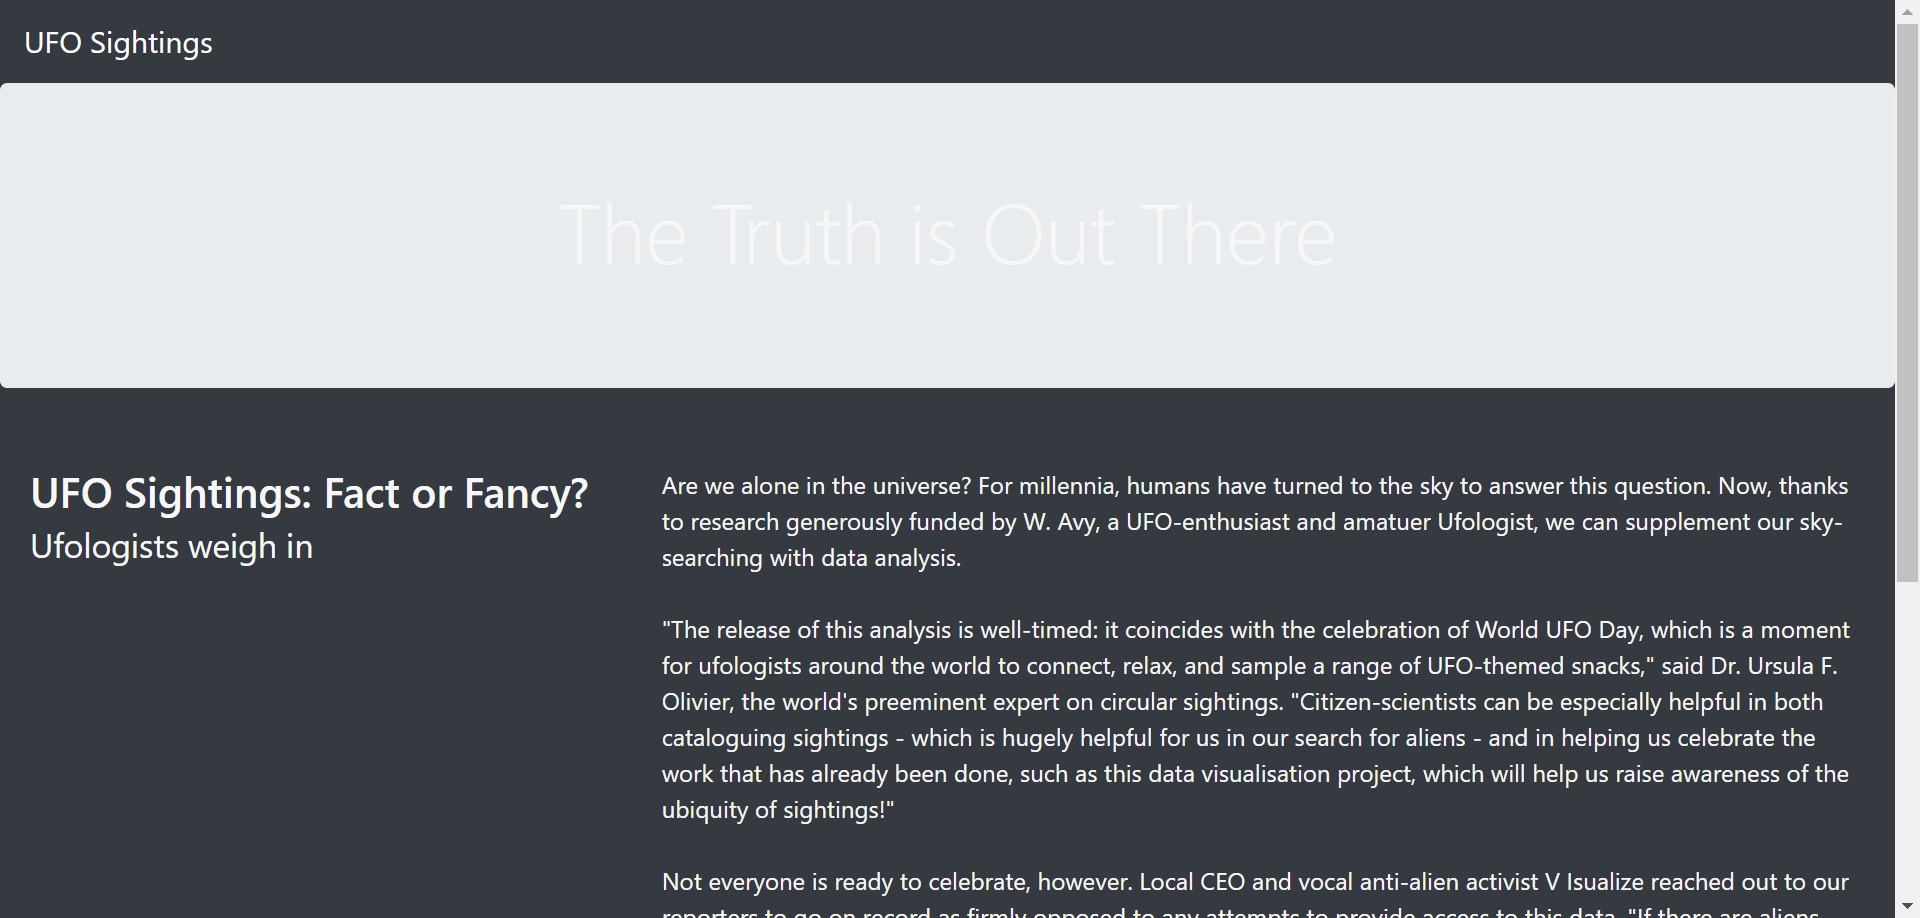
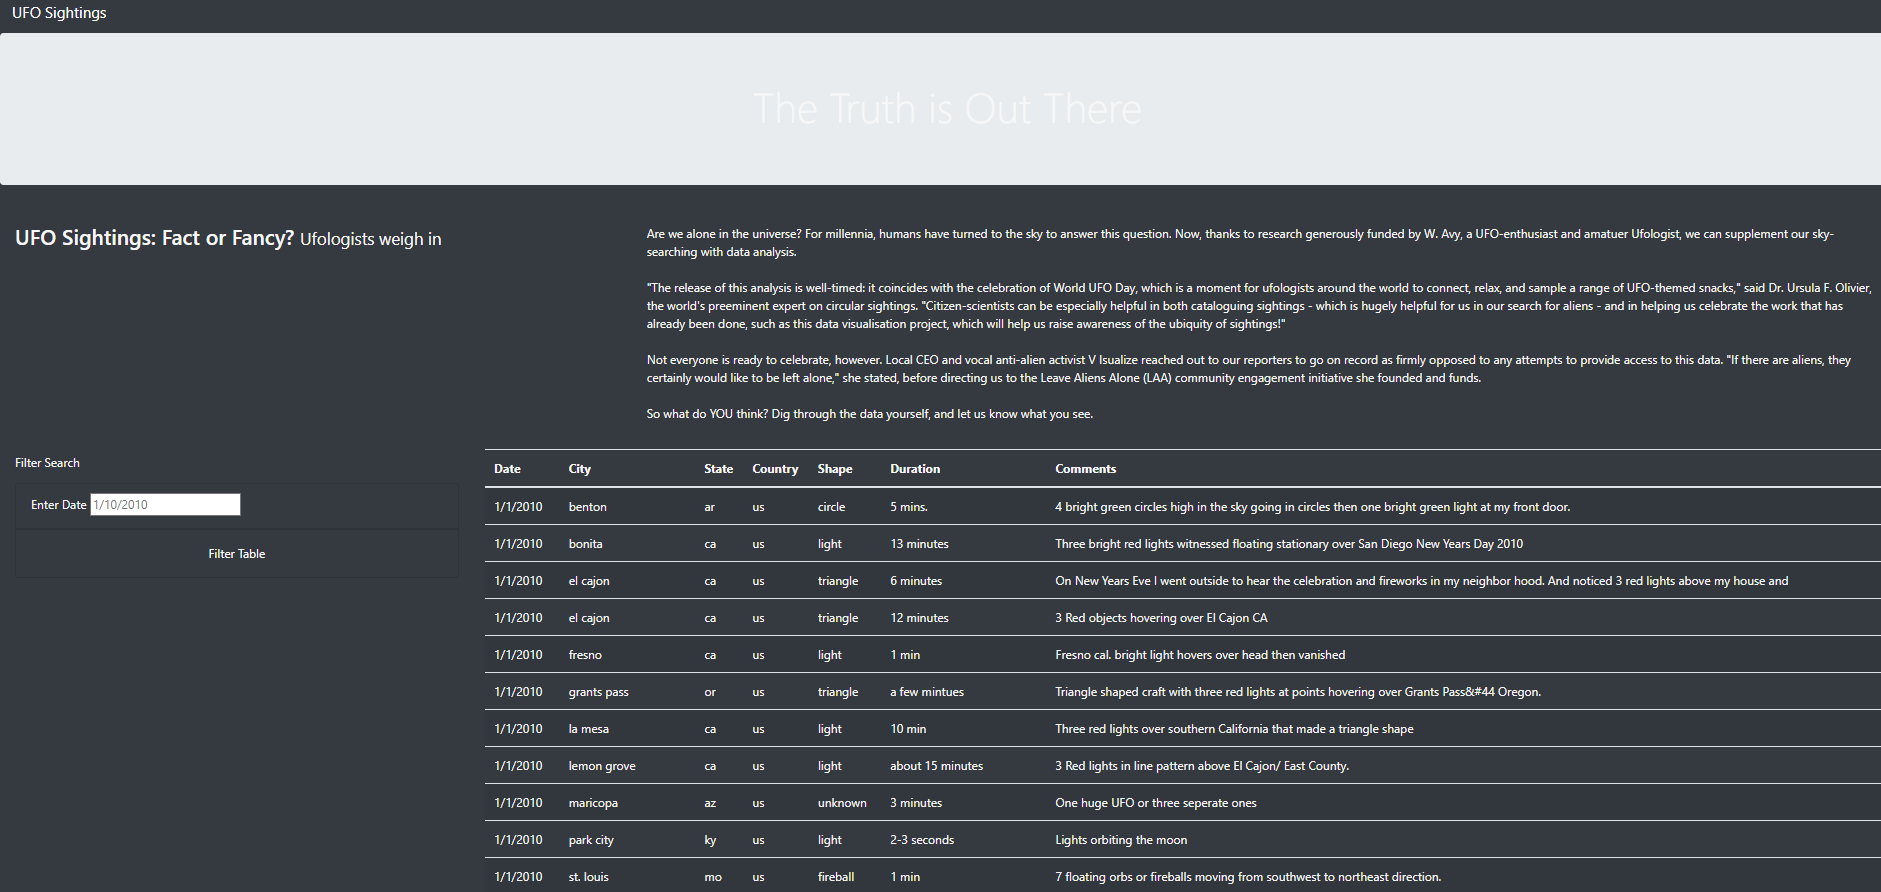
Add files via upload

diff --git a/static/js/app.js b/static/js/app.js
@@ -1,47 +1,76 @@
 // from data.js
+// import { data } from './data.js';
 const tableData = data;
 
 // get table references
 var tbody = d3.select("tbody");
 
 function buildTable(data) {
-    // First, clear out any existing data
-    tbody.html("");
-  
-    // Next, loop through each object in the data
-    // and append a row and cells for each value in the row
-    data.forEach((dataRow) => {
-      // Append a row to the table body
-      let row = tbody.append("tr");
-  
-      // Loop through each field in the dataRow and add
-      // each value as a table cell (td)
-      Object.values(dataRow).forEach((val) => {
-        let cell = row.append("td");
-        cell.text(val);
-        }
-      );
+  // First, clear out any existing data
+  tbody.html("");
+  // Next, loop through each object in the data
+  // and append a row and cells for each value in the row
+  data.forEach((dataRow) => {
+    // Append a row to the table body
+    let row = tbody.append("tr");
+
+    // Loop through each field in the dataRow and add
+    // each value as a table cell (td)
+    Object.values(dataRow).forEach((val) => {
+      let cell = row.append("td");
+      cell.text(val);
     });
-  }
-  function handleClick() {
-    let date = d3.select("#datetime").property("value");
-    let filteredData = tableData;
-    function handleClick() {
-        if (date) {
-          // Apply `filter` to the table data to only keep the
-          // rows where the `datetime` value matches the filter value
-          filteredData = filteredData.filter(row => row.datetime === date);
-        }
-      
-         // Rebuild the table using the filtered data
-        // @NOTE: If no date was entered, then filteredData will
-        // just be the original tableData.
-        buildTable(filteredData);
-      }
-      
-      // Attach an event to listen for the form button
-      d3.selectAll("#filter-btn").on("click", handleClick);
-      
-      // Build the table when the page loads
-      buildTable(tableData);
+  });
+}
+
+// 1. Create a variable to keep track of all the filters as an object.
+var filters = {};
+
+// 3. Use this function to update the filters. 
+function updateFilters() {
+
+    // 4a. Save the element that was changed as a variable.
+    let changedElement = d3.select(this);
+
+    // 4b. Save the value that was changed as a variable.
+  let elementValue = changedElement.property("value");
+  console.log(elementValue);
+    // 4c. Save the id of the filter that was changed as a variable.
+    let filterId = changedElement.attr("id");
+  
+    // 5. If a filter value was entered then add that filterId and value
+    // to the filters list. Otherwise, clear that filter from the filters object.
+    if (elementValue) {
+      filters[filterId] = elementValue;
     }
+    else {
+      delete filters[filterId];
+    }
+  
+    // 6. Call function to apply all filters and rebuild the table
+    filterTable();
+  
+  }
+  
+  // 7. Use this function to filter the table when data is entered.
+  function filterTable() {
+  
+    // 8. Set the filtered data to the tableData.
+    var filteredData = tableData;
+  
+    // 9. Loop through all of the filters and keep any data that
+    // matches the filter values
+    Object.entries(filters).forEach(([key, value]) => {
+      filteredData = filteredData.filter(row => row[key] === value);
+    });
+  
+  
+    // 10. Finally, rebuild the table using the filtered data
+    buildTable(filteredData);
+  }
+  
+  // 2. Attach an event to listen for changes to each filter
+  d3.selectAll("input").on("change", updateFilters);
+  
+  // Build the table when the page loads
+  buildTable(tableData);
